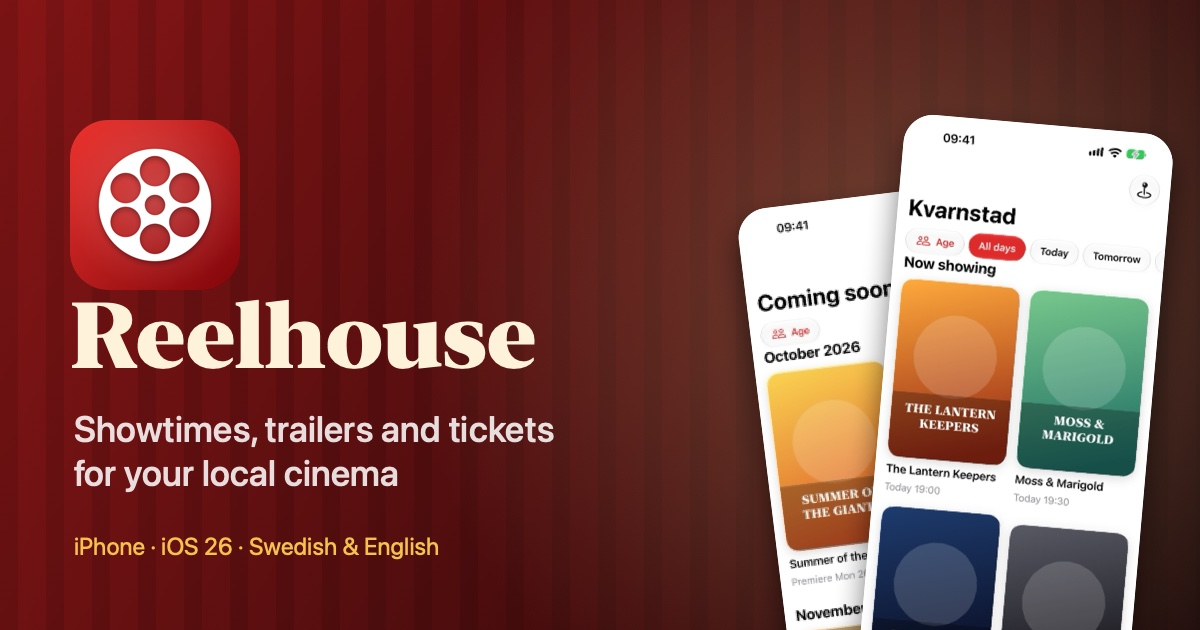
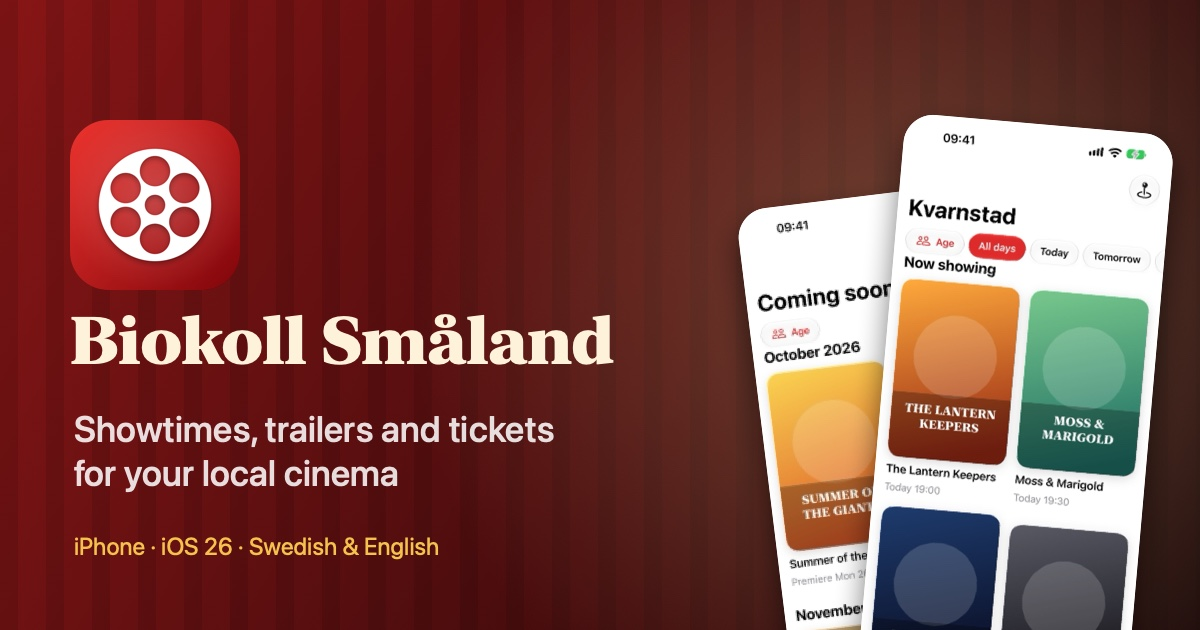
Site: the app is now called Biokoll Småland (pages, social preview and README)

Changed region(s): [[0.0617, 0.4524, 0.5242, 0.6032]]

diff --git a/index.html b/index.html
@@ -3,12 +3,12 @@
 <head>
   <meta charset="utf-8">
   <meta name="viewport" content="width=device-width, initial-scale=1">
-  <title>Reelhouse – showtimes, trailers and tickets for your local cinema</title>
-  <meta name="description" content="Reelhouse shows what's on at your local cinema, what's coming soon, plays the trailer right on the page and takes you to the cinema's own tickets. For iPhone, in Swedish and English.">
+  <title>Biokoll Sm&aring;land – showtimes, trailers and tickets for your local cinema</title>
+  <meta name="description" content="Biokoll Sm&aring;land shows what's on at your local cinema, what's coming soon, plays the trailer right on the page and takes you to the cinema's own tickets. For iPhone, in Swedish and English.">
   <meta name="theme-color" content="#78101a">
   <link rel="icon" type="image/png" href="assets/favicon.png">
   <link rel="apple-touch-icon" href="assets/apple-touch-icon.png">
-  <meta property="og:title" content="Reelhouse">
+  <meta property="og:title" content="Biokoll Sm&aring;land">
   <meta property="og:description" content="Showtimes, trailers and tickets for your local cinema. For iPhone, in Swedish and English.">
   <meta property="og:type" content="website">
   <meta property="og:url" content="https://idrewn.github.io/reelhouse-web/">
@@ -18,7 +18,7 @@
 <body>
 <header class="site-header">
   <div class="wrap">
-    <a class="brand" href="./"><span class="brand-icon"><svg class="app-icon" viewBox="0 0 1024 1024" aria-hidden="true" xmlns="http://www.w3.org/2000/svg"><defs><linearGradient id="gh" x1="0" y1="0" x2="1" y2="1"><stop offset="0" stop-color="#ed332e"/><stop offset="1" stop-color="#800509"/></linearGradient><radialGradient id="wh" cx=".5" cy=".5" r=".55"><stop offset="0" stop-color="#fff" stop-opacity=".18"/><stop offset="1" stop-color="#fff" stop-opacity="0"/></radialGradient><clipPath id="ch"><rect width="1024" height="1024" rx="229"/></clipPath><filter id="sh" x="-20%" y="-20%" width="140%" height="140%"><feDropShadow dx="0" dy="14" stdDeviation="18" flood-opacity=".35"/></filter></defs><g clip-path="url(#ch)"><rect width="1024" height="1024" fill="url(#gh)"/><rect width="1024" height="1024" fill="url(#wh)"/><g filter="url(#sh)"><g class="reel"><path fill="#fff" fill-rule="evenodd" d="M172.0 512.0a340 340 0 1 0 680 0a340 340 0 1 0 -680 0ZM597.5 614.5a92 92 0 1 0 184 0a92 92 0 1 0 -184 0ZM420.0 717.0a92 92 0 1 0 184 0a92 92 0 1 0 -184 0ZM242.5 614.5a92 92 0 1 0 184 0a92 92 0 1 0 -184 0ZM242.5 409.5a92 92 0 1 0 184 0a92 92 0 1 0 -184 0ZM420.0 307.0a92 92 0 1 0 184 0a92 92 0 1 0 -184 0ZM597.5 409.5a92 92 0 1 0 184 0a92 92 0 1 0 -184 0ZM450.0 512.0a62 62 0 1 0 124 0a62 62 0 1 0 -124 0Z"/></g></g></g></svg></span>Reelhouse</a>
+    <a class="brand" href="./"><span class="brand-icon"><svg class="app-icon" viewBox="0 0 1024 1024" aria-hidden="true" xmlns="http://www.w3.org/2000/svg"><defs><linearGradient id="gh" x1="0" y1="0" x2="1" y2="1"><stop offset="0" stop-color="#ed332e"/><stop offset="1" stop-color="#800509"/></linearGradient><radialGradient id="wh" cx=".5" cy=".5" r=".55"><stop offset="0" stop-color="#fff" stop-opacity=".18"/><stop offset="1" stop-color="#fff" stop-opacity="0"/></radialGradient><clipPath id="ch"><rect width="1024" height="1024" rx="229"/></clipPath><filter id="sh" x="-20%" y="-20%" width="140%" height="140%"><feDropShadow dx="0" dy="14" stdDeviation="18" flood-opacity=".35"/></filter></defs><g clip-path="url(#ch)"><rect width="1024" height="1024" fill="url(#gh)"/><rect width="1024" height="1024" fill="url(#wh)"/><g filter="url(#sh)"><g class="reel"><path fill="#fff" fill-rule="evenodd" d="M172.0 512.0a340 340 0 1 0 680 0a340 340 0 1 0 -680 0ZM597.5 614.5a92 92 0 1 0 184 0a92 92 0 1 0 -184 0ZM420.0 717.0a92 92 0 1 0 184 0a92 92 0 1 0 -184 0ZM242.5 614.5a92 92 0 1 0 184 0a92 92 0 1 0 -184 0ZM242.5 409.5a92 92 0 1 0 184 0a92 92 0 1 0 -184 0ZM420.0 307.0a92 92 0 1 0 184 0a92 92 0 1 0 -184 0ZM597.5 409.5a92 92 0 1 0 184 0a92 92 0 1 0 -184 0ZM450.0 512.0a62 62 0 1 0 124 0a62 62 0 1 0 -124 0Z"/></g></g></g></svg></span>Biokoll Sm&aring;land</a>
     <nav aria-label="Main"><a href="#features">Features</a><a href="#screens">Screens</a><a href="#details">Details</a><a href="privacy.html">Privacy</a><a href="support.html">Support</a></nav>
   </div>
 </header>
@@ -26,8 +26,8 @@
 <main>
   <div class="stage">
     <div class="wrap hero">
-      <div class="icon"><svg class="app-icon" viewBox="0 0 1024 1024" role="img" aria-label="Reelhouse app icon" xmlns="http://www.w3.org/2000/svg"><defs><linearGradient id="gx" x1="0" y1="0" x2="1" y2="1"><stop offset="0" stop-color="#ed332e"/><stop offset="1" stop-color="#800509"/></linearGradient><radialGradient id="wx" cx=".5" cy=".5" r=".55"><stop offset="0" stop-color="#fff" stop-opacity=".18"/><stop offset="1" stop-color="#fff" stop-opacity="0"/></radialGradient><clipPath id="cx"><rect width="1024" height="1024" rx="229"/></clipPath><filter id="sx" x="-20%" y="-20%" width="140%" height="140%"><feDropShadow dx="0" dy="14" stdDeviation="18" flood-opacity=".35"/></filter></defs><g clip-path="url(#cx)"><rect width="1024" height="1024" fill="url(#gx)"/><rect width="1024" height="1024" fill="url(#wx)"/><g filter="url(#sx)"><g class="reel"><path fill="#fff" fill-rule="evenodd" d="M172.0 512.0a340 340 0 1 0 680 0a340 340 0 1 0 -680 0ZM597.5 614.5a92 92 0 1 0 184 0a92 92 0 1 0 -184 0ZM420.0 717.0a92 92 0 1 0 184 0a92 92 0 1 0 -184 0ZM242.5 614.5a92 92 0 1 0 184 0a92 92 0 1 0 -184 0ZM242.5 409.5a92 92 0 1 0 184 0a92 92 0 1 0 -184 0ZM420.0 307.0a92 92 0 1 0 184 0a92 92 0 1 0 -184 0ZM597.5 409.5a92 92 0 1 0 184 0a92 92 0 1 0 -184 0ZM450.0 512.0a62 62 0 1 0 124 0a62 62 0 1 0 -124 0Z"/></g></g></g></svg></div>
-      <h1>Reelhouse</h1>
+      <div class="icon"><svg class="app-icon" viewBox="0 0 1024 1024" role="img" aria-label="Biokoll Sm&aring;land app icon" xmlns="http://www.w3.org/2000/svg"><defs><linearGradient id="gx" x1="0" y1="0" x2="1" y2="1"><stop offset="0" stop-color="#ed332e"/><stop offset="1" stop-color="#800509"/></linearGradient><radialGradient id="wx" cx=".5" cy=".5" r=".55"><stop offset="0" stop-color="#fff" stop-opacity=".18"/><stop offset="1" stop-color="#fff" stop-opacity="0"/></radialGradient><clipPath id="cx"><rect width="1024" height="1024" rx="229"/></clipPath><filter id="sx" x="-20%" y="-20%" width="140%" height="140%"><feDropShadow dx="0" dy="14" stdDeviation="18" flood-opacity=".35"/></filter></defs><g clip-path="url(#cx)"><rect width="1024" height="1024" fill="url(#gx)"/><rect width="1024" height="1024" fill="url(#wx)"/><g filter="url(#sx)"><g class="reel"><path fill="#fff" fill-rule="evenodd" d="M172.0 512.0a340 340 0 1 0 680 0a340 340 0 1 0 -680 0ZM597.5 614.5a92 92 0 1 0 184 0a92 92 0 1 0 -184 0ZM420.0 717.0a92 92 0 1 0 184 0a92 92 0 1 0 -184 0ZM242.5 614.5a92 92 0 1 0 184 0a92 92 0 1 0 -184 0ZM242.5 409.5a92 92 0 1 0 184 0a92 92 0 1 0 -184 0ZM420.0 307.0a92 92 0 1 0 184 0a92 92 0 1 0 -184 0ZM597.5 409.5a92 92 0 1 0 184 0a92 92 0 1 0 -184 0ZM450.0 512.0a62 62 0 1 0 124 0a62 62 0 1 0 -124 0Z"/></g></g></g></svg></div>
+      <h1>Biokoll Sm&aring;land</h1>
       <p class="lead">What&rsquo;s on at your local cinema, what&rsquo;s coming, and the trailer, right on the page. Scroll and the reel spins.</p>
       <p style="margin:0 0 14px;"><span class="badge">In development &middot; iPhone &middot; iOS 26</span></p>
       <div class="showcase">
@@ -54,7 +54,7 @@
         <div class="ticket"><div class="kicker">Trailers</div><h3>Right on the page</h3>
           <p>Tap play on the poster and the page scrolls to the trailer and starts it. It plays in place, with no jump out of the app.</p></div>
         <div class="ticket"><div class="kicker">Tickets</div><h3>From the cinema itself</h3>
-          <p>Tap a time and the cinema&rsquo;s own ticket page opens inside the app. Reelhouse never sees or handles your payment.</p></div>
+          <p>Tap a time and the cinema&rsquo;s own ticket page opens inside the app. Biokoll Sm&aring;land never sees or handles your payment.</p></div>
         <div class="ticket"><div class="kicker">Languages</div><h3>Svenska and English</h3>
           <p>Switch in one tap. Dates, times and labels follow along. Film descriptions come from the cinema and stay in Swedish.</p></div>
         <div class="ticket"><div class="kicker">Offline</div><h3>Saved for later</h3>
@@ -130,8 +130,8 @@
 
 <footer>
   <div class="wrap">
-    <p>&copy; 2026 Anders Johansson. Reelhouse is made by <a href="https://github.com/iDrewn">Anders Johansson</a>.</p>
-    <p>Reelhouse is an independent app. It is not affiliated with or endorsed by any cinema or booking provider, and the show information it displays belongs to the cinemas. The films, posters and cinemas in the screenshots are fictional. iPhone is a trademark of Apple Inc.</p>
+    <p>&copy; 2026 Anders Johansson. Biokoll Sm&aring;land is made by <a href="https://github.com/iDrewn">Anders Johansson</a>.</p>
+    <p>Biokoll Sm&aring;land is an independent app. It is not affiliated with or endorsed by any cinema or booking provider, and the show information it displays belongs to the cinemas. The films, posters and cinemas in the screenshots are fictional. iPhone is a trademark of Apple Inc.</p>
   </div>
 </footer>
 <script src="assets/spin.js" defer></script>

diff --git a/privacy.html b/privacy.html
@@ -3,8 +3,8 @@
 <head>
   <meta charset="utf-8">
   <meta name="viewport" content="width=device-width, initial-scale=1">
-  <title>Privacy policy – Reelhouse</title>
-  <meta name="description" content="Reelhouse does not collect, store or share any personal data. Read what the app connects to and what it keeps on your phone.">
+  <title>Privacy policy – Biokoll Sm&aring;land</title>
+  <meta name="description" content="Biokoll Sm&aring;land does not collect, store or share any personal data. Read what the app connects to and what it keeps on your phone.">
   <meta name="theme-color" content="#78101a">
   <link rel="icon" type="image/png" href="assets/favicon.png">
   <link rel="apple-touch-icon" href="assets/apple-touch-icon.png">
@@ -13,34 +13,34 @@
 <body>
 <header class="site-header">
   <div class="wrap">
-    <a class="brand" href="./"><span class="brand-icon"><svg class="app-icon" viewBox="0 0 1024 1024" aria-hidden="true" xmlns="http://www.w3.org/2000/svg"><defs><linearGradient id="gp" x1="0" y1="0" x2="1" y2="1"><stop offset="0" stop-color="#ed332e"/><stop offset="1" stop-color="#800509"/></linearGradient><radialGradient id="wp" cx=".5" cy=".5" r=".55"><stop offset="0" stop-color="#fff" stop-opacity=".18"/><stop offset="1" stop-color="#fff" stop-opacity="0"/></radialGradient><clipPath id="cp"><rect width="1024" height="1024" rx="229"/></clipPath><filter id="sp" x="-20%" y="-20%" width="140%" height="140%"><feDropShadow dx="0" dy="14" stdDeviation="18" flood-opacity=".35"/></filter></defs><g clip-path="url(#cp)"><rect width="1024" height="1024" fill="url(#gp)"/><rect width="1024" height="1024" fill="url(#wp)"/><g filter="url(#sp)"><g class="reel"><path fill="#fff" fill-rule="evenodd" d="M172.0 512.0a340 340 0 1 0 680 0a340 340 0 1 0 -680 0ZM597.5 614.5a92 92 0 1 0 184 0a92 92 0 1 0 -184 0ZM420.0 717.0a92 92 0 1 0 184 0a92 92 0 1 0 -184 0ZM242.5 614.5a92 92 0 1 0 184 0a92 92 0 1 0 -184 0ZM242.5 409.5a92 92 0 1 0 184 0a92 92 0 1 0 -184 0ZM420.0 307.0a92 92 0 1 0 184 0a92 92 0 1 0 -184 0ZM597.5 409.5a92 92 0 1 0 184 0a92 92 0 1 0 -184 0ZM450.0 512.0a62 62 0 1 0 124 0a62 62 0 1 0 -124 0Z"/></g></g></g></svg></span>Reelhouse</a>
+    <a class="brand" href="./"><span class="brand-icon"><svg class="app-icon" viewBox="0 0 1024 1024" aria-hidden="true" xmlns="http://www.w3.org/2000/svg"><defs><linearGradient id="gp" x1="0" y1="0" x2="1" y2="1"><stop offset="0" stop-color="#ed332e"/><stop offset="1" stop-color="#800509"/></linearGradient><radialGradient id="wp" cx=".5" cy=".5" r=".55"><stop offset="0" stop-color="#fff" stop-opacity=".18"/><stop offset="1" stop-color="#fff" stop-opacity="0"/></radialGradient><clipPath id="cp"><rect width="1024" height="1024" rx="229"/></clipPath><filter id="sp" x="-20%" y="-20%" width="140%" height="140%"><feDropShadow dx="0" dy="14" stdDeviation="18" flood-opacity=".35"/></filter></defs><g clip-path="url(#cp)"><rect width="1024" height="1024" fill="url(#gp)"/><rect width="1024" height="1024" fill="url(#wp)"/><g filter="url(#sp)"><g class="reel"><path fill="#fff" fill-rule="evenodd" d="M172.0 512.0a340 340 0 1 0 680 0a340 340 0 1 0 -680 0ZM597.5 614.5a92 92 0 1 0 184 0a92 92 0 1 0 -184 0ZM420.0 717.0a92 92 0 1 0 184 0a92 92 0 1 0 -184 0ZM242.5 614.5a92 92 0 1 0 184 0a92 92 0 1 0 -184 0ZM242.5 409.5a92 92 0 1 0 184 0a92 92 0 1 0 -184 0ZM420.0 307.0a92 92 0 1 0 184 0a92 92 0 1 0 -184 0ZM597.5 409.5a92 92 0 1 0 184 0a92 92 0 1 0 -184 0ZM450.0 512.0a62 62 0 1 0 124 0a62 62 0 1 0 -124 0Z"/></g></g></g></svg></span>Biokoll Sm&aring;land</a>
     <nav aria-label="Main"><a href="./#features">Features</a><a href="privacy.html">Privacy</a><a href="support.html">Support</a></nav>
   </div>
 </header>
 <main class="wrap">
   <article class="prose">
     <h1>Privacy policy</h1>
-    <p class="meta">Reelhouse &middot; Last updated 14 October 2026</p>
+    <p class="meta">Biokoll Sm&aring;land &middot; Last updated 14 October 2026</p>
 
-    <p><strong>Reelhouse does not collect, store or share any personal data.</strong> It has no accounts, no ads, no analytics and no third-party tracking, and it does not send anything about you to the developer.</p>
+    <p><strong>Biokoll Sm&aring;land does not collect, store or share any personal data.</strong> It has no accounts, no ads, no analytics and no third-party tracking, and it does not send anything about you to the developer.</p>
 
     <h2>What stays on your phone</h2>
-    <p>Reelhouse remembers which cinema you picked and which language you chose, and it keeps a copy of the last schedule it loaded and of the posters and cast photos you have seen, so the app works without a connection. This is stored on your iPhone only and is removed when you delete the app.</p>
+    <p>Biokoll Sm&aring;land remembers which cinema you picked and which language you chose, and it keeps a copy of the last schedule it loaded and of the posters and cast photos you have seen, so the app works without a connection. This is stored on your iPhone only and is removed when you delete the app.</p>
 
     <h2>What the app connects to</h2>
-    <p>To show you what is on, Reelhouse makes network requests. Like any request to a web server, these let the server see your IP address. The app sends no account, device or advertising identifier with them.</p>
+    <p>To show you what is on, Biokoll Sm&aring;land makes network requests. Like any request to a web server, these let the server see your IP address. The app sends no account, device or advertising identifier with them.</p>
     <ul>
       <li><strong>The cinemas&rsquo; schedule service</strong> (<code>laganbio.se</code>), for the list of cinemas, the shows and the film details, and, when you tap a time, for that one showing&rsquo;s ticket link. The request contains only which cinema or which showing you are looking at.</li>
       <li><strong>Image servers</strong> (<code>cdn.bio24.se</code> for posters and <code>image.tmdb.org</code> for cast photos), to load the pictures.</li>
       <li><strong>YouTube</strong> (<code>youtube-nocookie.com</code>), only when you tap play on a trailer. The video is then played by YouTube&rsquo;s embedded player, and what YouTube collects while it plays is covered by Google&rsquo;s privacy policy. Nothing from YouTube is loaded before you tap.</li>
-      <li><strong>The cinema&rsquo;s ticket system</strong>, when you open a ticket page. It opens in an in-app browser and is run by the ticketing company, under its own privacy policy. Reelhouse does not see what you enter there.</li>
+      <li><strong>The cinema&rsquo;s ticket system</strong>, when you open a ticket page. It opens in an in-app browser and is run by the ticketing company, under its own privacy policy. Biokoll Sm&aring;land does not see what you enter there.</li>
     </ul>
 
     <h2>Permissions</h2>
-    <p>Reelhouse does not ask for access to your location, photos, contacts, camera or microphone. The Call, Email and Map buttons hand off to the Phone, Mail and Maps apps, which are then governed by Apple&rsquo;s own policies.</p>
+    <p>Biokoll Sm&aring;land does not ask for access to your location, photos, contacts, camera or microphone. The Call, Email and Map buttons hand off to the Phone, Mail and Maps apps, which are then governed by Apple&rsquo;s own policies.</p>
 
     <h2>Children</h2>
-    <p>Reelhouse does not knowingly collect data from anyone, including children.</p>
+    <p>Biokoll Sm&aring;land does not knowingly collect data from anyone, including children.</p>
 
     <h2>Changes</h2>
     <p>If this policy changes, the new version will be posted on this page with an updated date.</p>
@@ -51,7 +51,7 @@
 </main>
 <footer>
   <div class="wrap">
-    <p>&copy; 2026 Anders Johansson. Reelhouse is an independent app and is not affiliated with or endorsed by any cinema or booking provider. iPhone is a trademark of Apple Inc.</p>
+    <p>&copy; 2026 Anders Johansson. Biokoll Sm&aring;land is an independent app and is not affiliated with or endorsed by any cinema or booking provider. iPhone is a trademark of Apple Inc.</p>
   </div>
 </footer>
 <script src="assets/spin.js" defer></script>

diff --git a/support.html b/support.html
@@ -3,8 +3,8 @@
 <head>
   <meta charset="utf-8">
   <meta name="viewport" content="width=device-width, initial-scale=1">
-  <title>Support – Reelhouse</title>
-  <meta name="description" content="Answers to common questions about Reelhouse and how to report a problem.">
+  <title>Support – Biokoll Sm&aring;land</title>
+  <meta name="description" content="Answers to common questions about Biokoll Sm&aring;land and how to report a problem.">
   <meta name="theme-color" content="#78101a">
   <link rel="icon" type="image/png" href="assets/favicon.png">
   <link rel="apple-touch-icon" href="assets/apple-touch-icon.png">
@@ -13,14 +13,14 @@
 <body>
 <header class="site-header">
   <div class="wrap">
-    <a class="brand" href="./"><span class="brand-icon"><svg class="app-icon" viewBox="0 0 1024 1024" aria-hidden="true" xmlns="http://www.w3.org/2000/svg"><defs><linearGradient id="gs" x1="0" y1="0" x2="1" y2="1"><stop offset="0" stop-color="#ed332e"/><stop offset="1" stop-color="#800509"/></linearGradient><radialGradient id="ws" cx=".5" cy=".5" r=".55"><stop offset="0" stop-color="#fff" stop-opacity=".18"/><stop offset="1" stop-color="#fff" stop-opacity="0"/></radialGradient><clipPath id="cs"><rect width="1024" height="1024" rx="229"/></clipPath><filter id="ss" x="-20%" y="-20%" width="140%" height="140%"><feDropShadow dx="0" dy="14" stdDeviation="18" flood-opacity=".35"/></filter></defs><g clip-path="url(#cs)"><rect width="1024" height="1024" fill="url(#gs)"/><rect width="1024" height="1024" fill="url(#ws)"/><g filter="url(#ss)"><g class="reel"><path fill="#fff" fill-rule="evenodd" d="M172.0 512.0a340 340 0 1 0 680 0a340 340 0 1 0 -680 0ZM597.5 614.5a92 92 0 1 0 184 0a92 92 0 1 0 -184 0ZM420.0 717.0a92 92 0 1 0 184 0a92 92 0 1 0 -184 0ZM242.5 614.5a92 92 0 1 0 184 0a92 92 0 1 0 -184 0ZM242.5 409.5a92 92 0 1 0 184 0a92 92 0 1 0 -184 0ZM420.0 307.0a92 92 0 1 0 184 0a92 92 0 1 0 -184 0ZM597.5 409.5a92 92 0 1 0 184 0a92 92 0 1 0 -184 0ZM450.0 512.0a62 62 0 1 0 124 0a62 62 0 1 0 -124 0Z"/></g></g></g></svg></span>Reelhouse</a>
+    <a class="brand" href="./"><span class="brand-icon"><svg class="app-icon" viewBox="0 0 1024 1024" aria-hidden="true" xmlns="http://www.w3.org/2000/svg"><defs><linearGradient id="gs" x1="0" y1="0" x2="1" y2="1"><stop offset="0" stop-color="#ed332e"/><stop offset="1" stop-color="#800509"/></linearGradient><radialGradient id="ws" cx=".5" cy=".5" r=".55"><stop offset="0" stop-color="#fff" stop-opacity=".18"/><stop offset="1" stop-color="#fff" stop-opacity="0"/></radialGradient><clipPath id="cs"><rect width="1024" height="1024" rx="229"/></clipPath><filter id="ss" x="-20%" y="-20%" width="140%" height="140%"><feDropShadow dx="0" dy="14" stdDeviation="18" flood-opacity=".35"/></filter></defs><g clip-path="url(#cs)"><rect width="1024" height="1024" fill="url(#gs)"/><rect width="1024" height="1024" fill="url(#ws)"/><g filter="url(#ss)"><g class="reel"><path fill="#fff" fill-rule="evenodd" d="M172.0 512.0a340 340 0 1 0 680 0a340 340 0 1 0 -680 0ZM597.5 614.5a92 92 0 1 0 184 0a92 92 0 1 0 -184 0ZM420.0 717.0a92 92 0 1 0 184 0a92 92 0 1 0 -184 0ZM242.5 614.5a92 92 0 1 0 184 0a92 92 0 1 0 -184 0ZM242.5 409.5a92 92 0 1 0 184 0a92 92 0 1 0 -184 0ZM420.0 307.0a92 92 0 1 0 184 0a92 92 0 1 0 -184 0ZM597.5 409.5a92 92 0 1 0 184 0a92 92 0 1 0 -184 0ZM450.0 512.0a62 62 0 1 0 124 0a62 62 0 1 0 -124 0Z"/></g></g></g></svg></span>Biokoll Sm&aring;land</a>
     <nav aria-label="Main"><a href="./#features">Features</a><a href="privacy.html">Privacy</a><a href="support.html">Support</a></nav>
   </div>
 </header>
 <main class="wrap">
   <article class="prose">
     <h1>Support</h1>
-    <p class="meta">Help with Reelhouse</p>
+    <p class="meta">Help with Biokoll Sm&aring;land</p>
 
     <p>Found a bug or have an idea? <a href="https://github.com/iDrewn/reelhouse-web/issues">Open an issue on GitHub</a>. Please include your iPhone model, iOS version, which cinema you had selected and what you were doing.</p>
 
@@ -31,12 +31,12 @@
       <p>Five cinemas in southern Sweden: the ones in Laholm, Ljungby, Markaryd, Oskarström and Strömsnäsbruk. Pick one from the map-pin button at the top right, or in the Cinemas tab. Your choice is remembered.</p>
     </details>
     <details>
-      <summary>Is Reelhouse an official app of the cinemas?</summary>
-      <p>No. Reelhouse is an independent app and is not affiliated with or endorsed by any cinema or booking provider. It shows the schedule the cinemas publish on their own website.</p>
+      <summary>Is Biokoll Sm&aring;land an official app of the cinemas?</summary>
+      <p>No. Biokoll Sm&aring;land is an independent app and is not affiliated with or endorsed by any cinema or booking provider. It shows the schedule the cinemas publish on their own website.</p>
     </details>
     <details>
       <summary>How do I buy a ticket?</summary>
-      <p>Open a film, then tap the time you want. Reelhouse asks for that showing&rsquo;s ticket link and opens the cinema&rsquo;s own ticket page inside the app, where you pick seats and pay. Payment is handled entirely by the cinema&rsquo;s ticket system, and Reelhouse never sees your details. If a showing can&rsquo;t be booked online, the app says so and offers to call the cinema.</p>
+      <p>Open a film, then tap the time you want. Biokoll Sm&aring;land asks for that showing&rsquo;s ticket link and opens the cinema&rsquo;s own ticket page inside the app, where you pick seats and pay. Payment is handled entirely by the cinema&rsquo;s ticket system, and Biokoll Sm&aring;land never sees your details. If a showing can&rsquo;t be booked online, the app says so and offers to call the cinema.</p>
     </details>
     <details>
       <summary>Why are the film descriptions in Swedish when the app is in English?</summary>
@@ -52,7 +52,7 @@
     </details>
     <details>
       <summary>Why is a film under &ldquo;No age rating listed&rdquo;?</summary>
-      <p>Some films, especially upcoming ones, have no age rating yet. Rather than guess, Reelhouse puts them in their own section below the films that match your filter.</p>
+      <p>Some films, especially upcoming ones, have no age rating yet. Rather than guess, Biokoll Sm&aring;land puts them in their own section below the films that match your filter.</p>
     </details>
     <details>
       <summary>What is Coming soon?</summary>
@@ -64,7 +64,7 @@
     </details>
     <details>
       <summary>Can I use it without a connection?</summary>
-      <p>Yes, for what you have already looked at. Reelhouse keeps the last schedule it loaded and the posters on your phone. When it can&rsquo;t refresh, it shows the saved schedule with a note saying when it was last updated. Booking and trailers need a connection.</p>
+      <p>Yes, for what you have already looked at. Biokoll Sm&aring;land keeps the last schedule it loaded and the posters on your phone. When it can&rsquo;t refresh, it shows the saved schedule with a note saying when it was last updated. Booking and trailers need a connection.</p>
     </details>
     <details>
       <summary>The times look wrong.</summary>
@@ -72,13 +72,13 @@
     </details>
     <details>
       <summary>Does it work on iPad?</summary>
-      <p>Reelhouse is made and tested for iPhone. It may run on iPad, but the layout hasn&rsquo;t been checked there.</p>
+      <p>Biokoll Sm&aring;land is made and tested for iPhone. It may run on iPad, but the layout hasn&rsquo;t been checked there.</p>
     </details>
   </article>
 </main>
 <footer>
   <div class="wrap">
-    <p>&copy; 2026 Anders Johansson. Reelhouse is an independent app and is not affiliated with or endorsed by any cinema or booking provider. iPhone is a trademark of Apple Inc.</p>
+    <p>&copy; 2026 Anders Johansson. Biokoll Sm&aring;land is an independent app and is not affiliated with or endorsed by any cinema or booking provider. iPhone is a trademark of Apple Inc.</p>
   </div>
 </footer>
 <script src="assets/spin.js" defer></script>

diff --git a/style.css b/style.css
@@ -57,7 +57,7 @@ nav a:hover { color: var(--text); text-decoration: none; }
 }
 .hero { padding: 72px 0 40px; text-align: center; }
 .hero .icon { width: 128px; height: 128px; margin: 0 auto 24px; filter: drop-shadow(0 18px 26px rgba(0, 0, 0, .55)); }
-.hero h1 { font-family: var(--serif); font-size: clamp(44px, 9vw, 78px); line-height: 1.02; margin: 0 0 14px; letter-spacing: -0.01em; color: var(--cream); text-shadow: 0 2px 24px rgba(0, 0, 0, .4); }
+.hero h1 { font-family: var(--serif); font-size: clamp(38px, 8vw, 72px); line-height: 1.02; margin: 0 0 14px; letter-spacing: -0.01em; color: var(--cream); text-shadow: 0 2px 24px rgba(0, 0, 0, .4); }
 .hero p.lead { font-size: clamp(19px, 3vw, 24px); color: rgba(255, 243, 220, .82); max-width: 640px; margin: 0 auto 26px; }
 .badge { display: inline-flex; align-items: center; gap: 8px; padding: 6px 16px; border-radius: 999px; border: 1px solid rgba(242, 181, 60, .6); background: rgba(0, 0, 0, .28);
   font-size: 13px; letter-spacing: .08em; text-transform: uppercase; color: var(--gold-bright); }

diff --git a/README.md b/README.md
@@ -1,6 +1,6 @@
-# Reelhouse
+# Biokoll Småland
 
-Website for **Reelhouse**, an iOS app that shows what's on at your local cinema, what's coming soon, plays the trailer on the page and
+Website for **Biokoll Småland**, an iOS app that shows what's on at your local cinema, what's coming soon, plays the trailer on the page and
 takes you to the cinema's own tickets. For iPhone, in Swedish and English.
 
 Live site: https://idrewn.github.io/reelhouse-web/
@@ -12,5 +12,5 @@ Live site: https://idrewn.github.io/reelhouse-web/
 The site is plain HTML and CSS published with GitHub Pages. The app icon in the header and hero is an inline SVG whose reel turns as you
 scroll (`assets/spin.js`, off when the visitor prefers reduced motion). Report problems or ideas for the app through this repository's issues.
 
-Reelhouse is an independent app and is not affiliated with or endorsed by any cinema or booking provider. The films, posters and cinemas in
+Biokoll Småland is an independent app and is not affiliated with or endorsed by any cinema or booking provider. The films, posters and cinemas in
 the screenshots are fictional.
